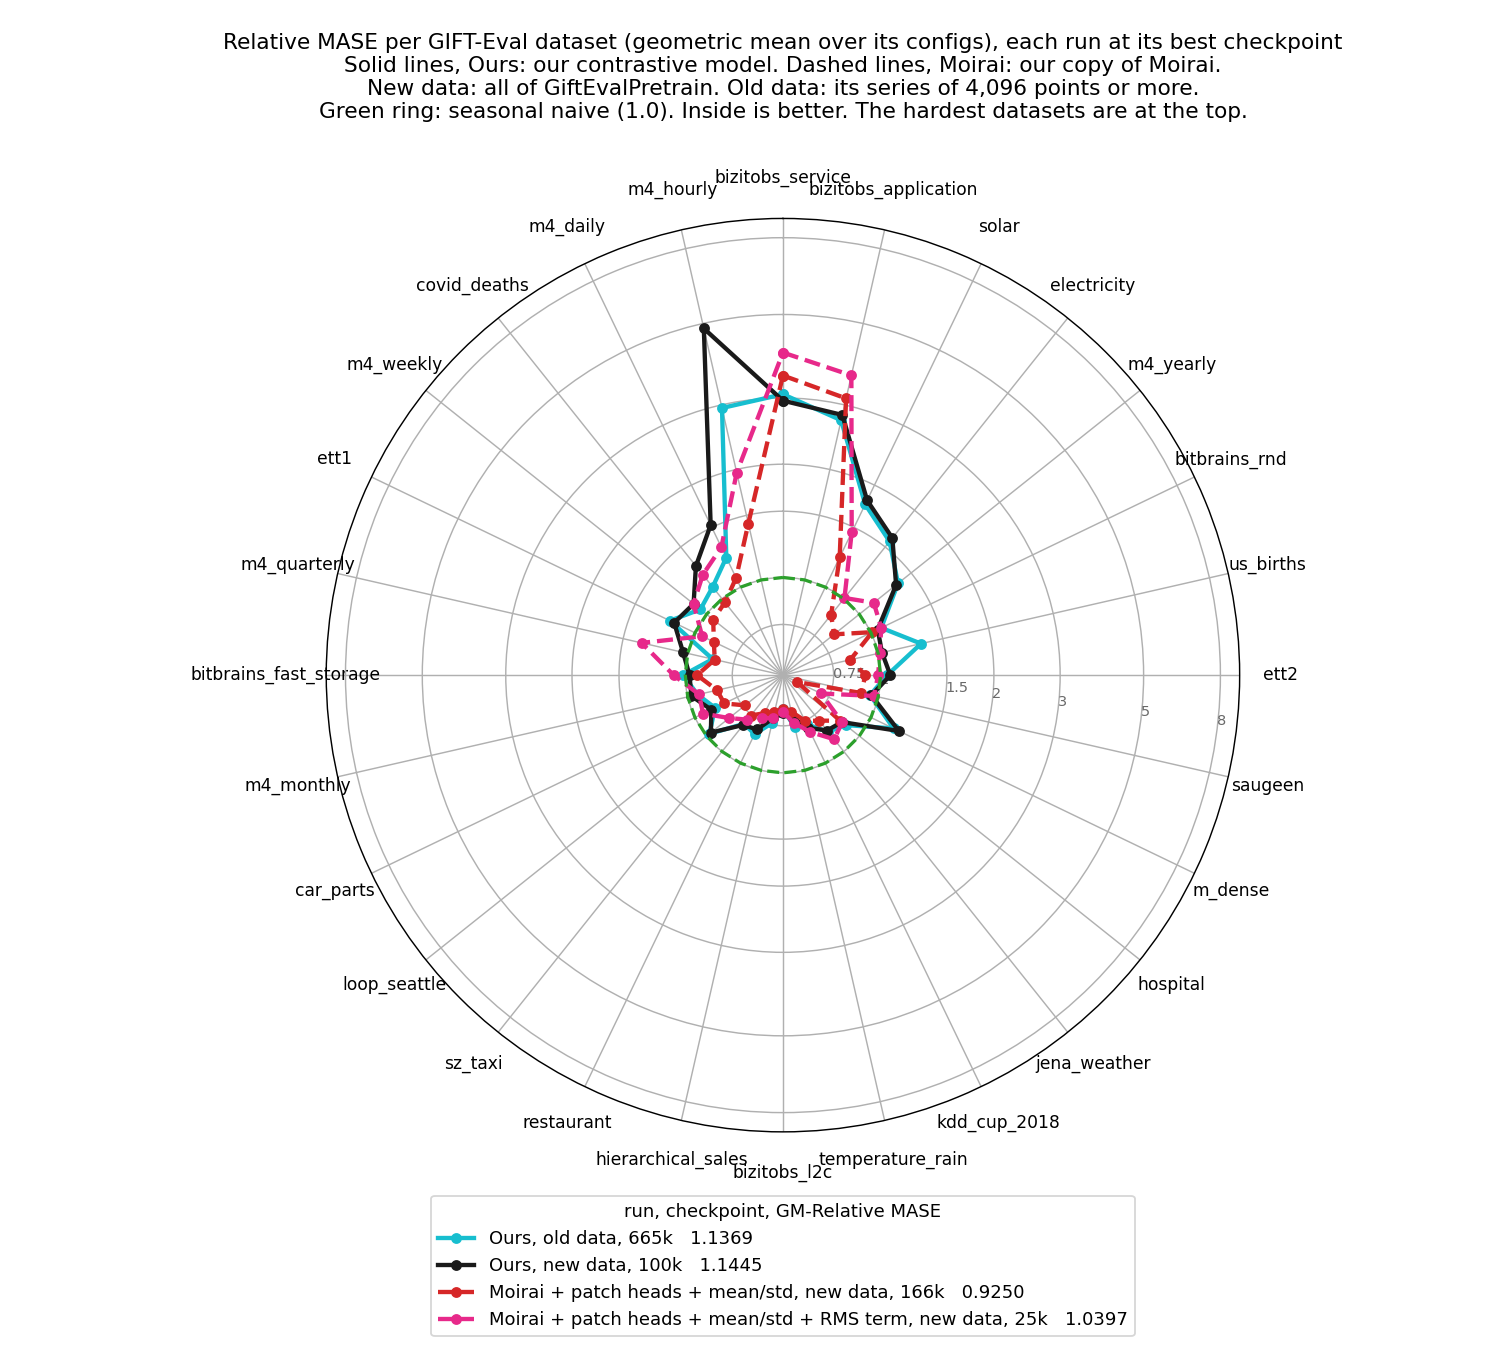
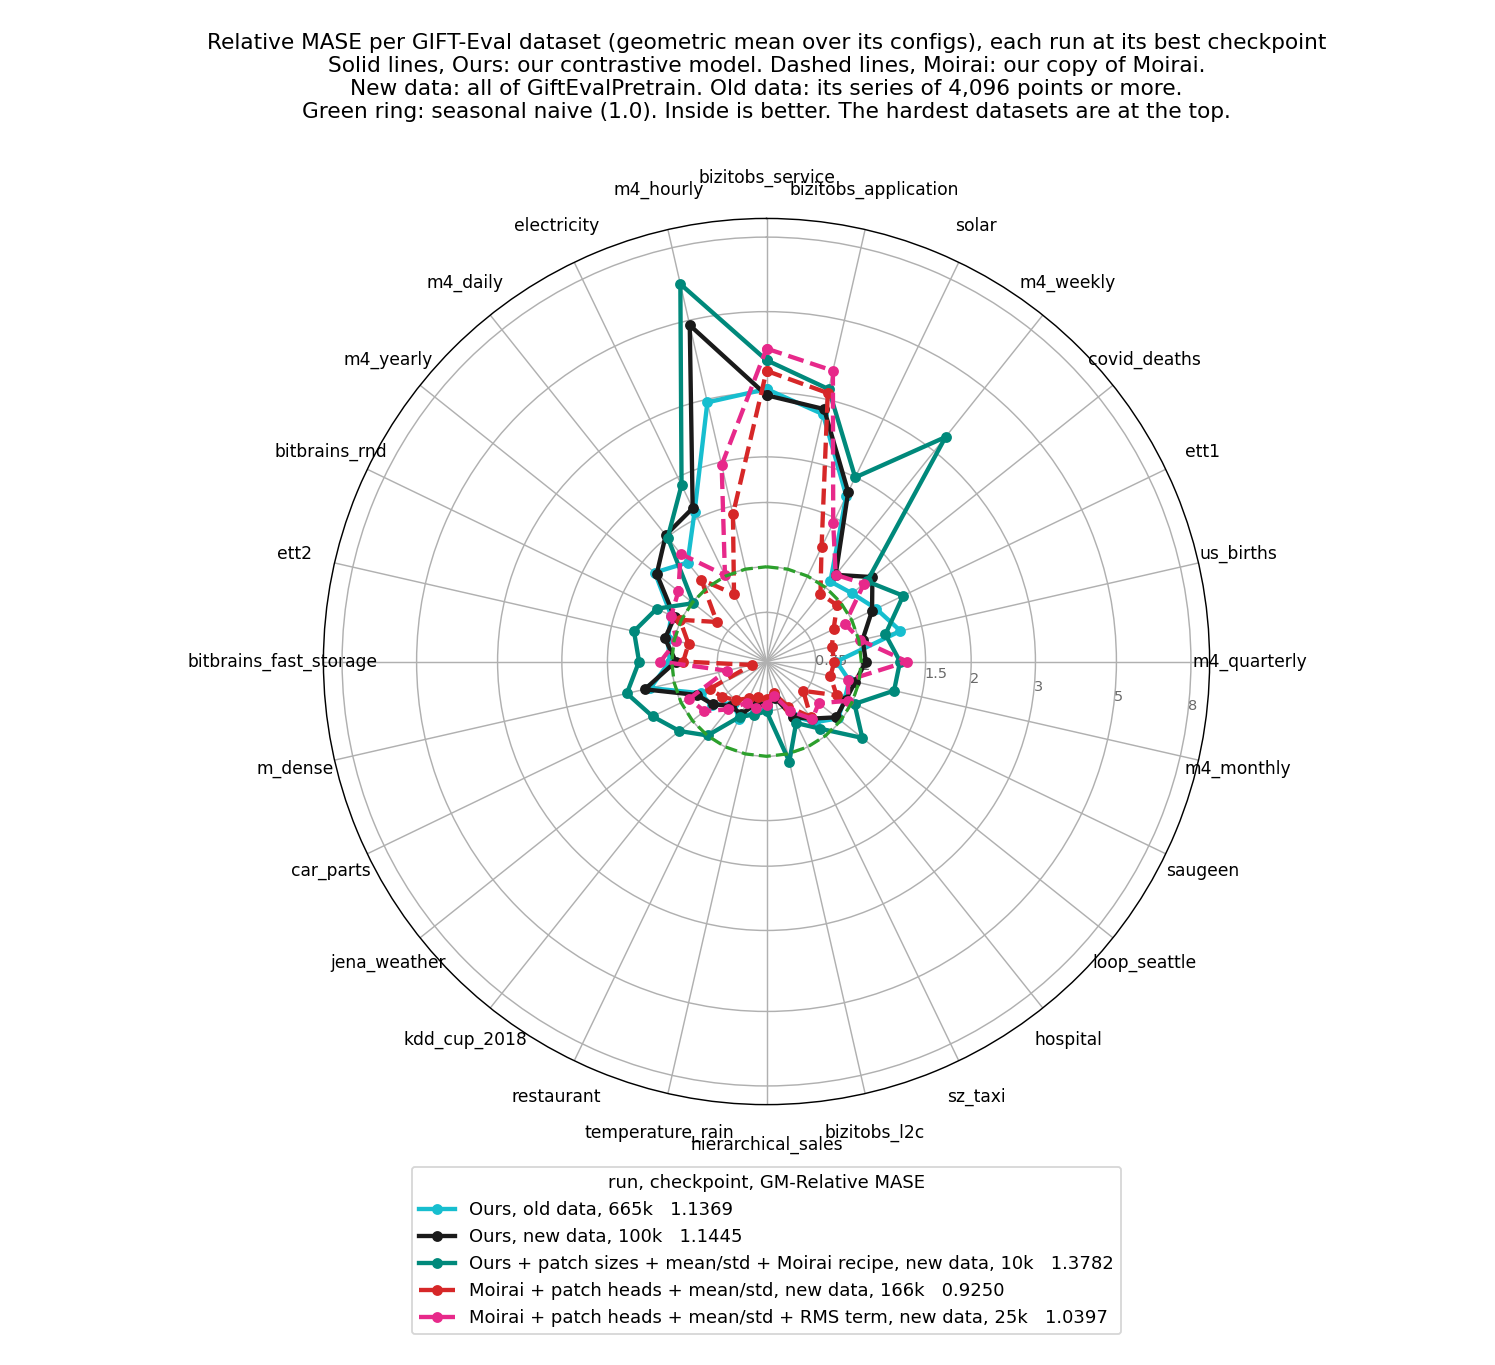
exp(#412): #412om scores 1.3782 at 10k (Moirai 1.0830)
Ours with the Moirai scaling, patch sizes and recipe (PR #423), B4 head
bank on the frozen 10k backbone. It enters the curves (teal, solid,
batch 256 so XSCALE 4) and the radar.

diff --git a/reports/2026-09-06_moirai_small_size/scripts/plot_gm_rates.py b/reports/2026-09-06_moirai_small_size/scripts/plot_gm_rates.py
@@ -30,6 +30,7 @@ RUNS = [
     (P + "_cos665k",  "Ours, lr cosine 6e-5→1e-6 over 665k",      4.0, "D"),
     (P + "_cos200k",  "Ours, lr cosine 5.6e-5→1e-6 by 200k",      4.0, "v"),
     ("cf419_cos200k", "Ours, lr cosine by 200k, new data",        4.0, "*"),
+    ("cf412om", "Ours + patch sizes + mean/std + Moirai recipe, new data", 4.4, "h"),
     # Moirai: our copy of Moirai, trained on the values with its schedule.
     ("cf415_moirai_native", "Moirai, own head",                   2.4, "o"),
     ("cf421f_moirai_native", "Moirai + patch heads + mean/std, new data", 4.4, "X"),
@@ -37,11 +38,11 @@ RUNS = [
 ]
 SERIES = [(arm, label, colour(arm), width, marker, line(arm))
           for arm, label, width, marker in RUNS]
-# Moirai trains at batch 256: one of its steps holds the data of four
-# batch-64 steps.
+# Moirai and cf412om train at batch 256: one of their steps holds the data
+# of four batch-64 steps.
 XSCALE = {"cf415_moirai": 4, "cf415_moirai_native": 4, "cf419_moirai_native": 4,
           "cf421z_moirai_native": 4, "cf421f_moirai_native": 4, "cf421fb_moirai_native": 4,
-          "cf421n_moirai_native": 4}
+          "cf421n_moirai_native": 4, "cf412om": 4}
 # Where the last score of a line prints, so two lines that end together part.
 END_LABEL_OFFSET = {P + "_lr100x": (9, 4), P + "_cos200k": (9, -12)}
 BEST, BAND, PROJECT_BEST = 1.1369, 0.008, 1.0651
@@ -101,8 +102,8 @@ def main():
     ticks = [40000, 100000, 200000, 400000, 665000, 1000000]
     ax.set_xticks(ticks)
     ax.set_xticklabels(["40k", "100k", "200k", "400k", "665k", "1,000k"])
-    ax.set_xlabel("Data seen, in batch-64 steps (log scale). Moirai trains at "
-                  "batch 256, so one of its steps counts 4.")
+    ax.set_xlabel("Data seen, in batch-64 steps (log scale). Moirai and the Moirai "
+                  "recipe train at batch 256, so one of their steps counts 4.")
     ax.set_ylabel("GM-Relative MASE, 97-config GIFT-Eval (lower is better)")
     ax.set_title("GM-Relative MASE against data seen. 11.4M parameters unless marked.\n"
                  "Solid lines, Ours: our contrastive model. Dashed lines, Moirai: "

diff --git a/reports/2026-09-06_moirai_small_size/scripts/plot_radar_419.py b/reports/2026-09-06_moirai_small_size/scripts/plot_radar_419.py
@@ -14,6 +14,7 @@ from run_style import P, colour, line
 # CSVs in the radar folder; the owner took them off this figure.
 NEW_DATA = [
     ("cf419_cos200k", "cos419_", "Ours"),
+    ("cf412om", "ours412om_", "Ours + patch sizes + mean/std + Moirai recipe"),
     ("cf421f_moirai_native", "moirai421f_native", "Moirai + patch heads + mean/std"),
     ("cf421n_moirai_native", "moirai421n_native", "Moirai + patch heads + mean/std + RMS term"),
 ]

diff --git a/reports/2026-09-06_moirai_small_size/scripts/run_style.py b/reports/2026-09-06_moirai_small_size/scripts/run_style.py
@@ -16,6 +16,7 @@ STYLE = {
     P + "_cos200k": ("#17becf", OURS),
     "b2cos": ("#e377c2", OURS),
     "cf419_cos200k": ("#1a1a1a", OURS),
+    "cf412om": ("#00897b", OURS),
     "cf415_moirai": ("#8c564b", MOIRAI),
     "cf415_moirai_native": ("#8c564b", ":"),
     "cf419_moirai_native": ("#9a9a00", MOIRAI),
